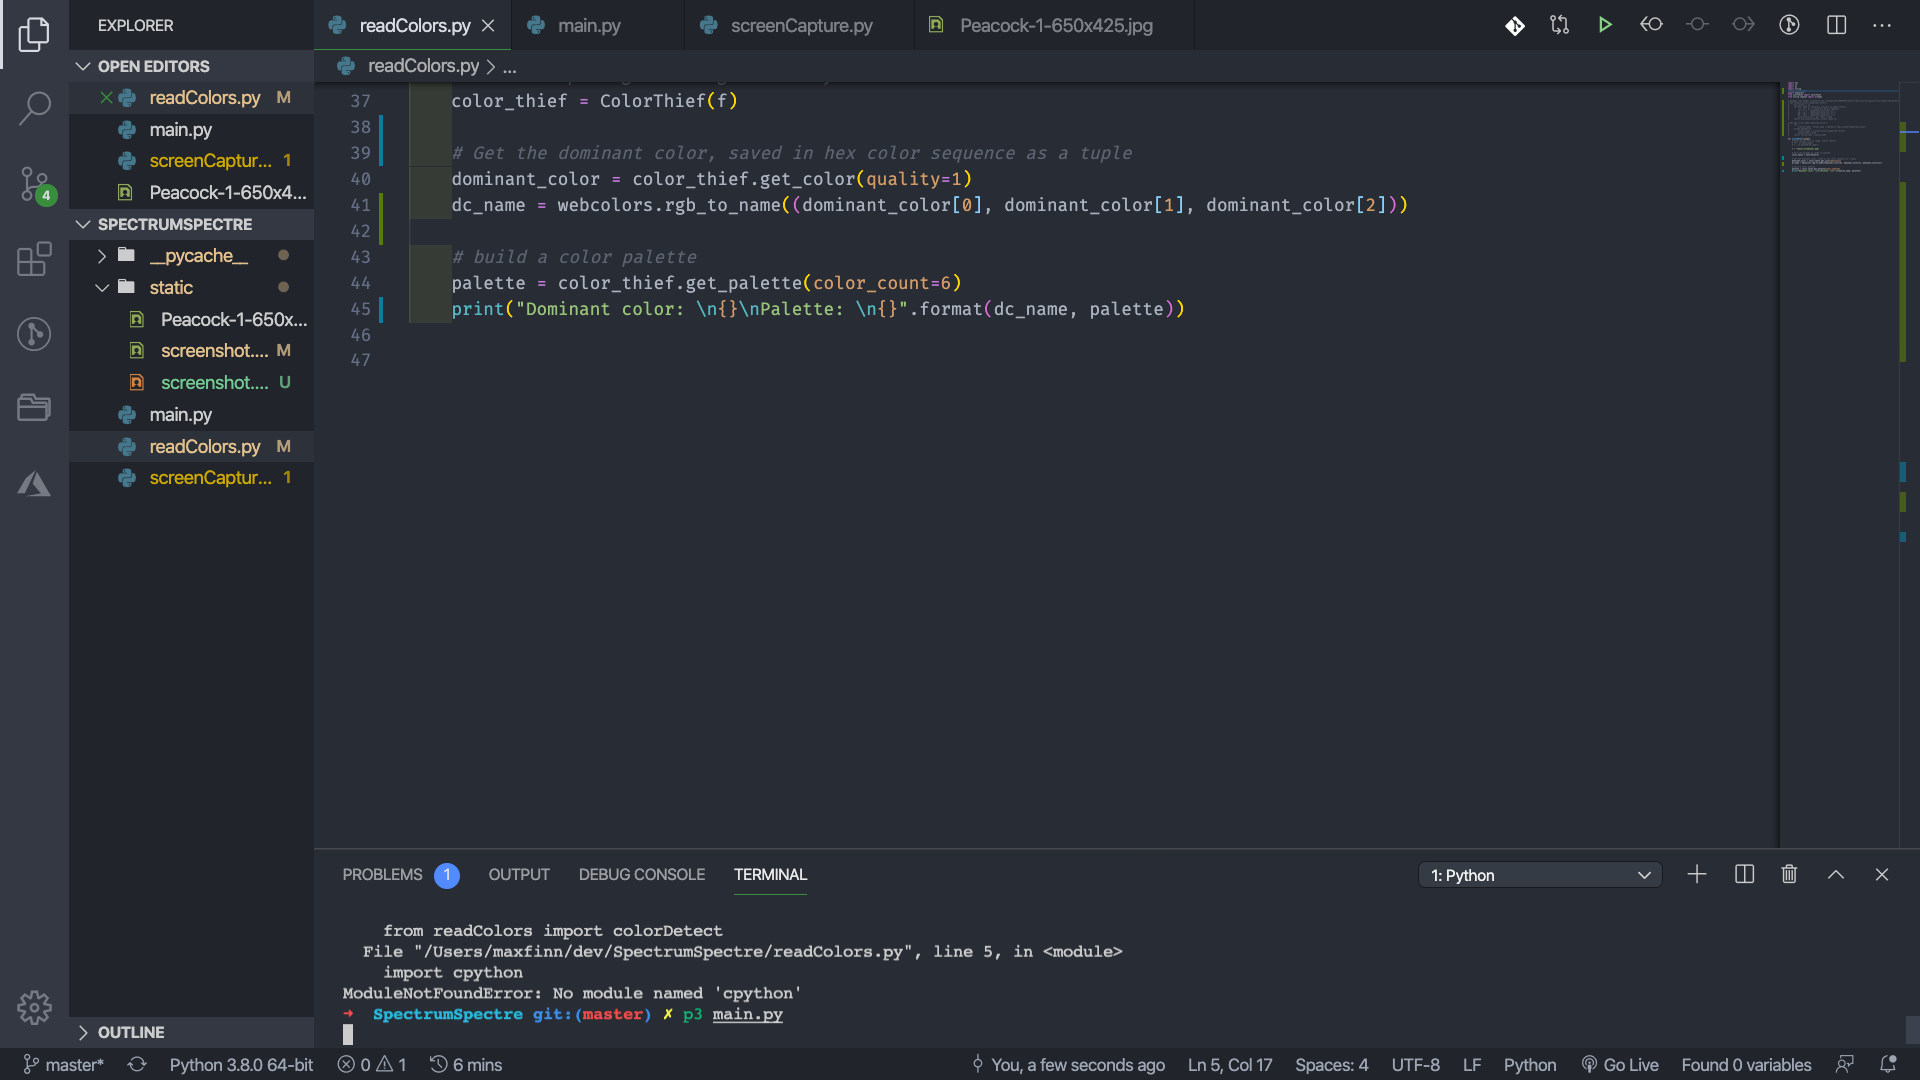
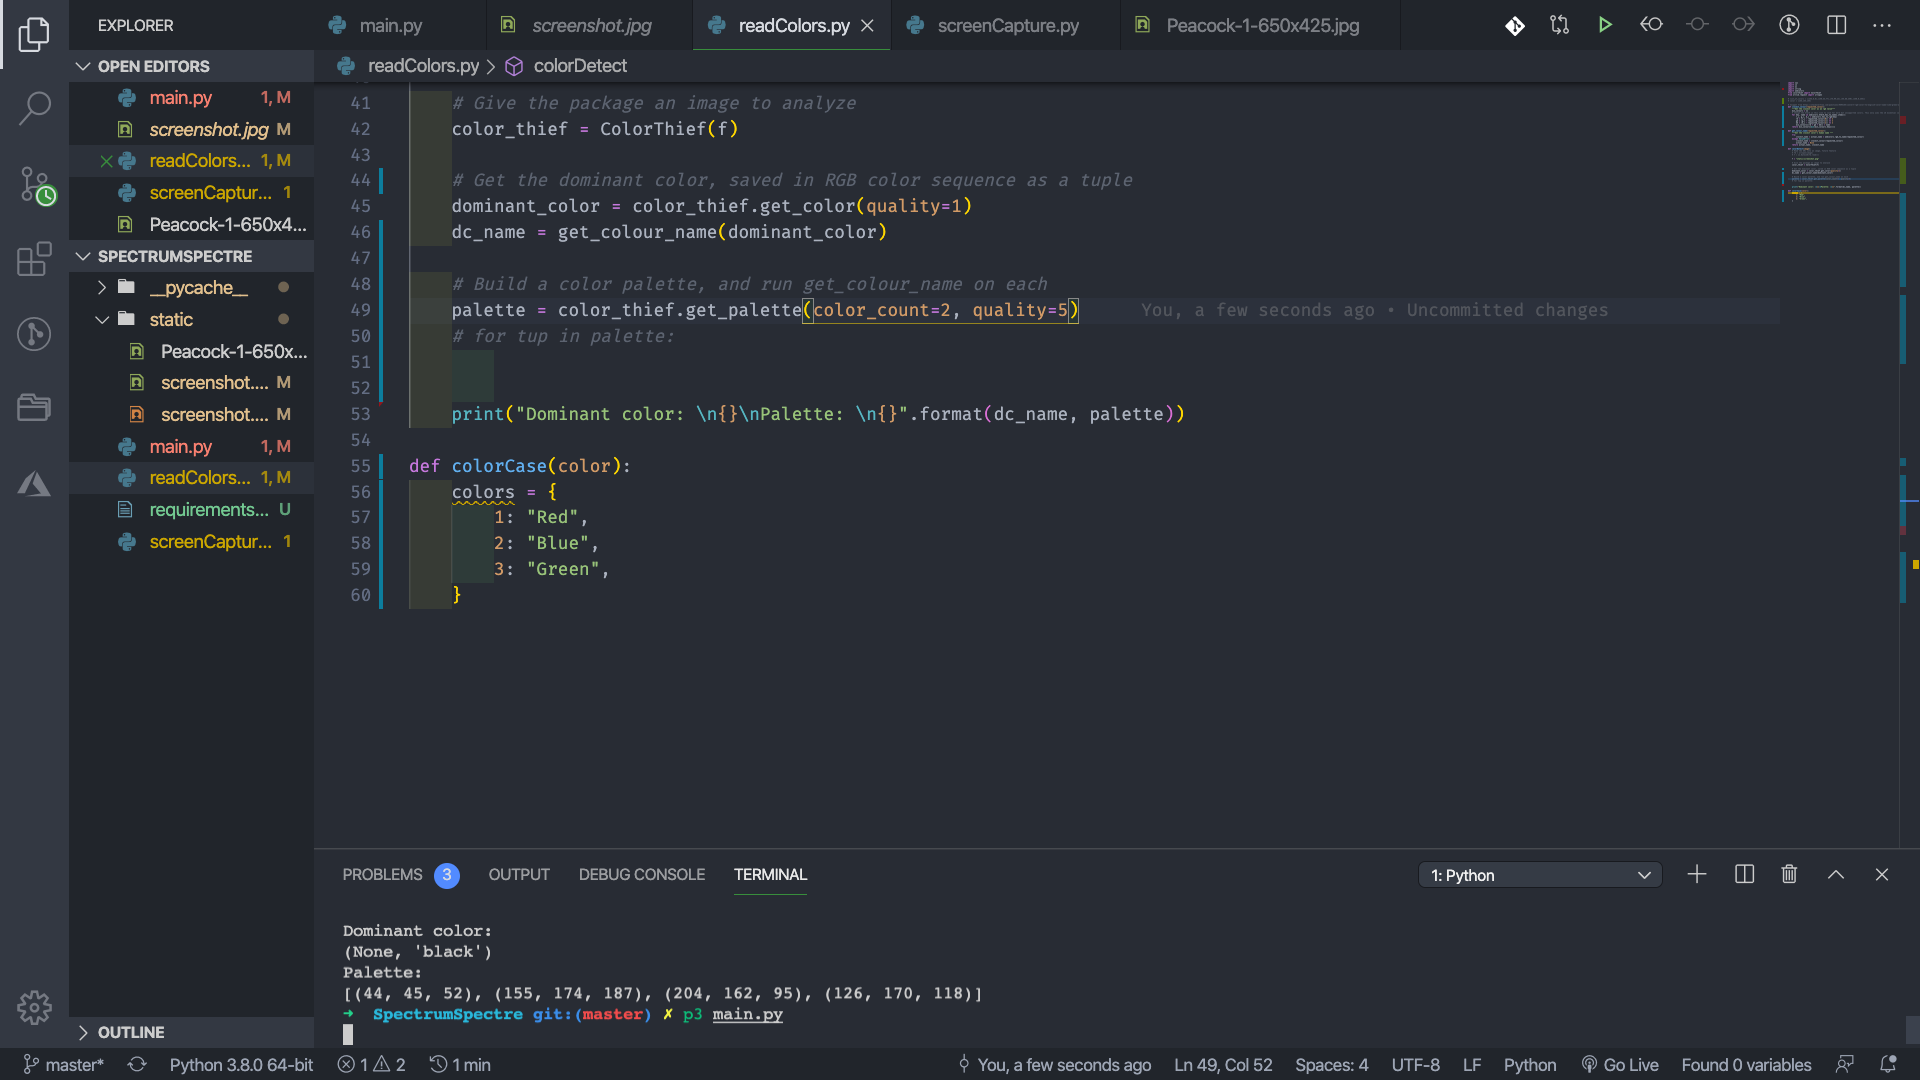
[add] readColors.py: Full list of all 16 HTML4 compatible numbers

diff --git a/readColors.py b/readColors.py
@@ -2,29 +2,34 @@ import sys
 import io
 import os
 import string
-# import cpython
 import webcolors
 from colorthief import ColorThief
 from urllib.request import urlopen
 
-# Snippet from https://stackoverflow.com/questions/9694165/convert-rgb-color-to-english-color-name-like-green-with-python
-# def closest_colour(requested_colour):
-#     min_colours = {}
-#     for key, name in webcolors.css3_hex_to_names.items():
-#         r_c, g_c, b_c = webcolors.hex_to_rgb(key)
-#         rd = (r_c - requested_colour[0]) ** 2
-#         gd = (g_c - requested_colour[1]) ** 2
-#         bd = (b_c - requested_colour[2]) ** 2
-#         min_colours[(rd + gd + bd)] = name
-#     return min_colours[min(min_colours.keys())]
+# list_of_colors = [[255,0,0],[150,33,77],[75,99,23],[45,88,250],[250,0,255]]
+# color = [155,155,155]
 
-# def get_colour_name(requested_colour):
-#     try:
-#         closest_name = actual_name = webcolors.rgb_to_name(requested_colour)
-#     except ValueError:
-#         closest_name = closest_colour(requested_colour)
-#         actual_name = None
-#     return actual_name, closest_name
+# Snippet from https://stackoverflow.com/questions/9694165/convert-rgb-color-to-english-color-name-like-green-with-python
+def closest_colour(requested_colour):
+    """Get the closest color as an rgb value"""
+    min_colours = {}
+    # Change the html4 in this line to css3 for more but unsupported colors. This only uses the 16 essential colors.
+    for key, name in webcolors.html4_hex_to_names.items():
+        r_c, g_c, b_c = webcolors.hex_to_rgb(key)
+        rd = (r_c - requested_colour[0]) ** 2
+        gd = (g_c - requested_colour[1]) ** 2
+        bd = (b_c - requested_colour[2]) ** 2
+        min_colours[(rd + gd + bd)] = name
+    return min_colours[min(min_colours.keys())]
+
+def get_colour_name(requested_colour):
+    """Get the closest color's human name """
+    try:
+        closest_name = actual_name = webcolors.rgb_to_name(requested_colour)
+    except ValueError:
+        closest_name = closest_colour(requested_colour)
+        actual_name = None
+    return actual_name, closest_name
 
 def colorDetect(image):
     # Read the URL into an image, future feature
@@ -36,11 +41,33 @@ def colorDetect(image):
     # Give the package an image to analyze
     color_thief = ColorThief(f)
     
-    # Get the dominant color, saved in hex color sequence as a tuple
+    # Get the dominant color, saved in RGB color sequence as a tuple
     dominant_color = color_thief.get_color(quality=1)
-    dc_name = webcolors.rgb_to_name((dominant_color[0], dominant_color[1], dominant_color[2]))
+    dc_name = get_colour_name(dominant_color)
 
-    # build a color palette
-    palette = color_thief.get_palette(color_count=6)
+    # Build a color palette, and run get_colour_name on each
+    palette = color_thief.get_palette(color_count=2, quality=5)
+    # for tup in palette:
+        
+        
     print("Dominant color: \n{}\nPalette: \n{}".format(dc_name, palette))
 
+def colorCase(color):
+    colors = {
+        1: "Red",
+        2: "Blue",
+        3: "Green",
+        4: "Black",
+        5: "Silver",
+        6: "Gray",
+        7: "White",
+        8: "Maroon",
+        9: "Purple",
+        10: "Fuchsia",
+        11: "Lime",
+        12: "Olive",
+        13: "Yellow",
+        14: "Navy",
+        15: "Teal",
+        16: "Aqua"
+    }

diff --git a/main.py b/main.py
@@ -6,9 +6,9 @@ from screenCapture import captureDesktop
 
 # Test link
 # file = "https://assets.wordpress.envato-static.com/uploads/2017/02/RGB-1.jpg"
-file = "static/screenshot.png"
+# file = "static/screenshot.png"
 
 if __name__ == "__main__":
-    captureDesktop()
+    file = captureDesktop()
     colorDetect(file)
     
